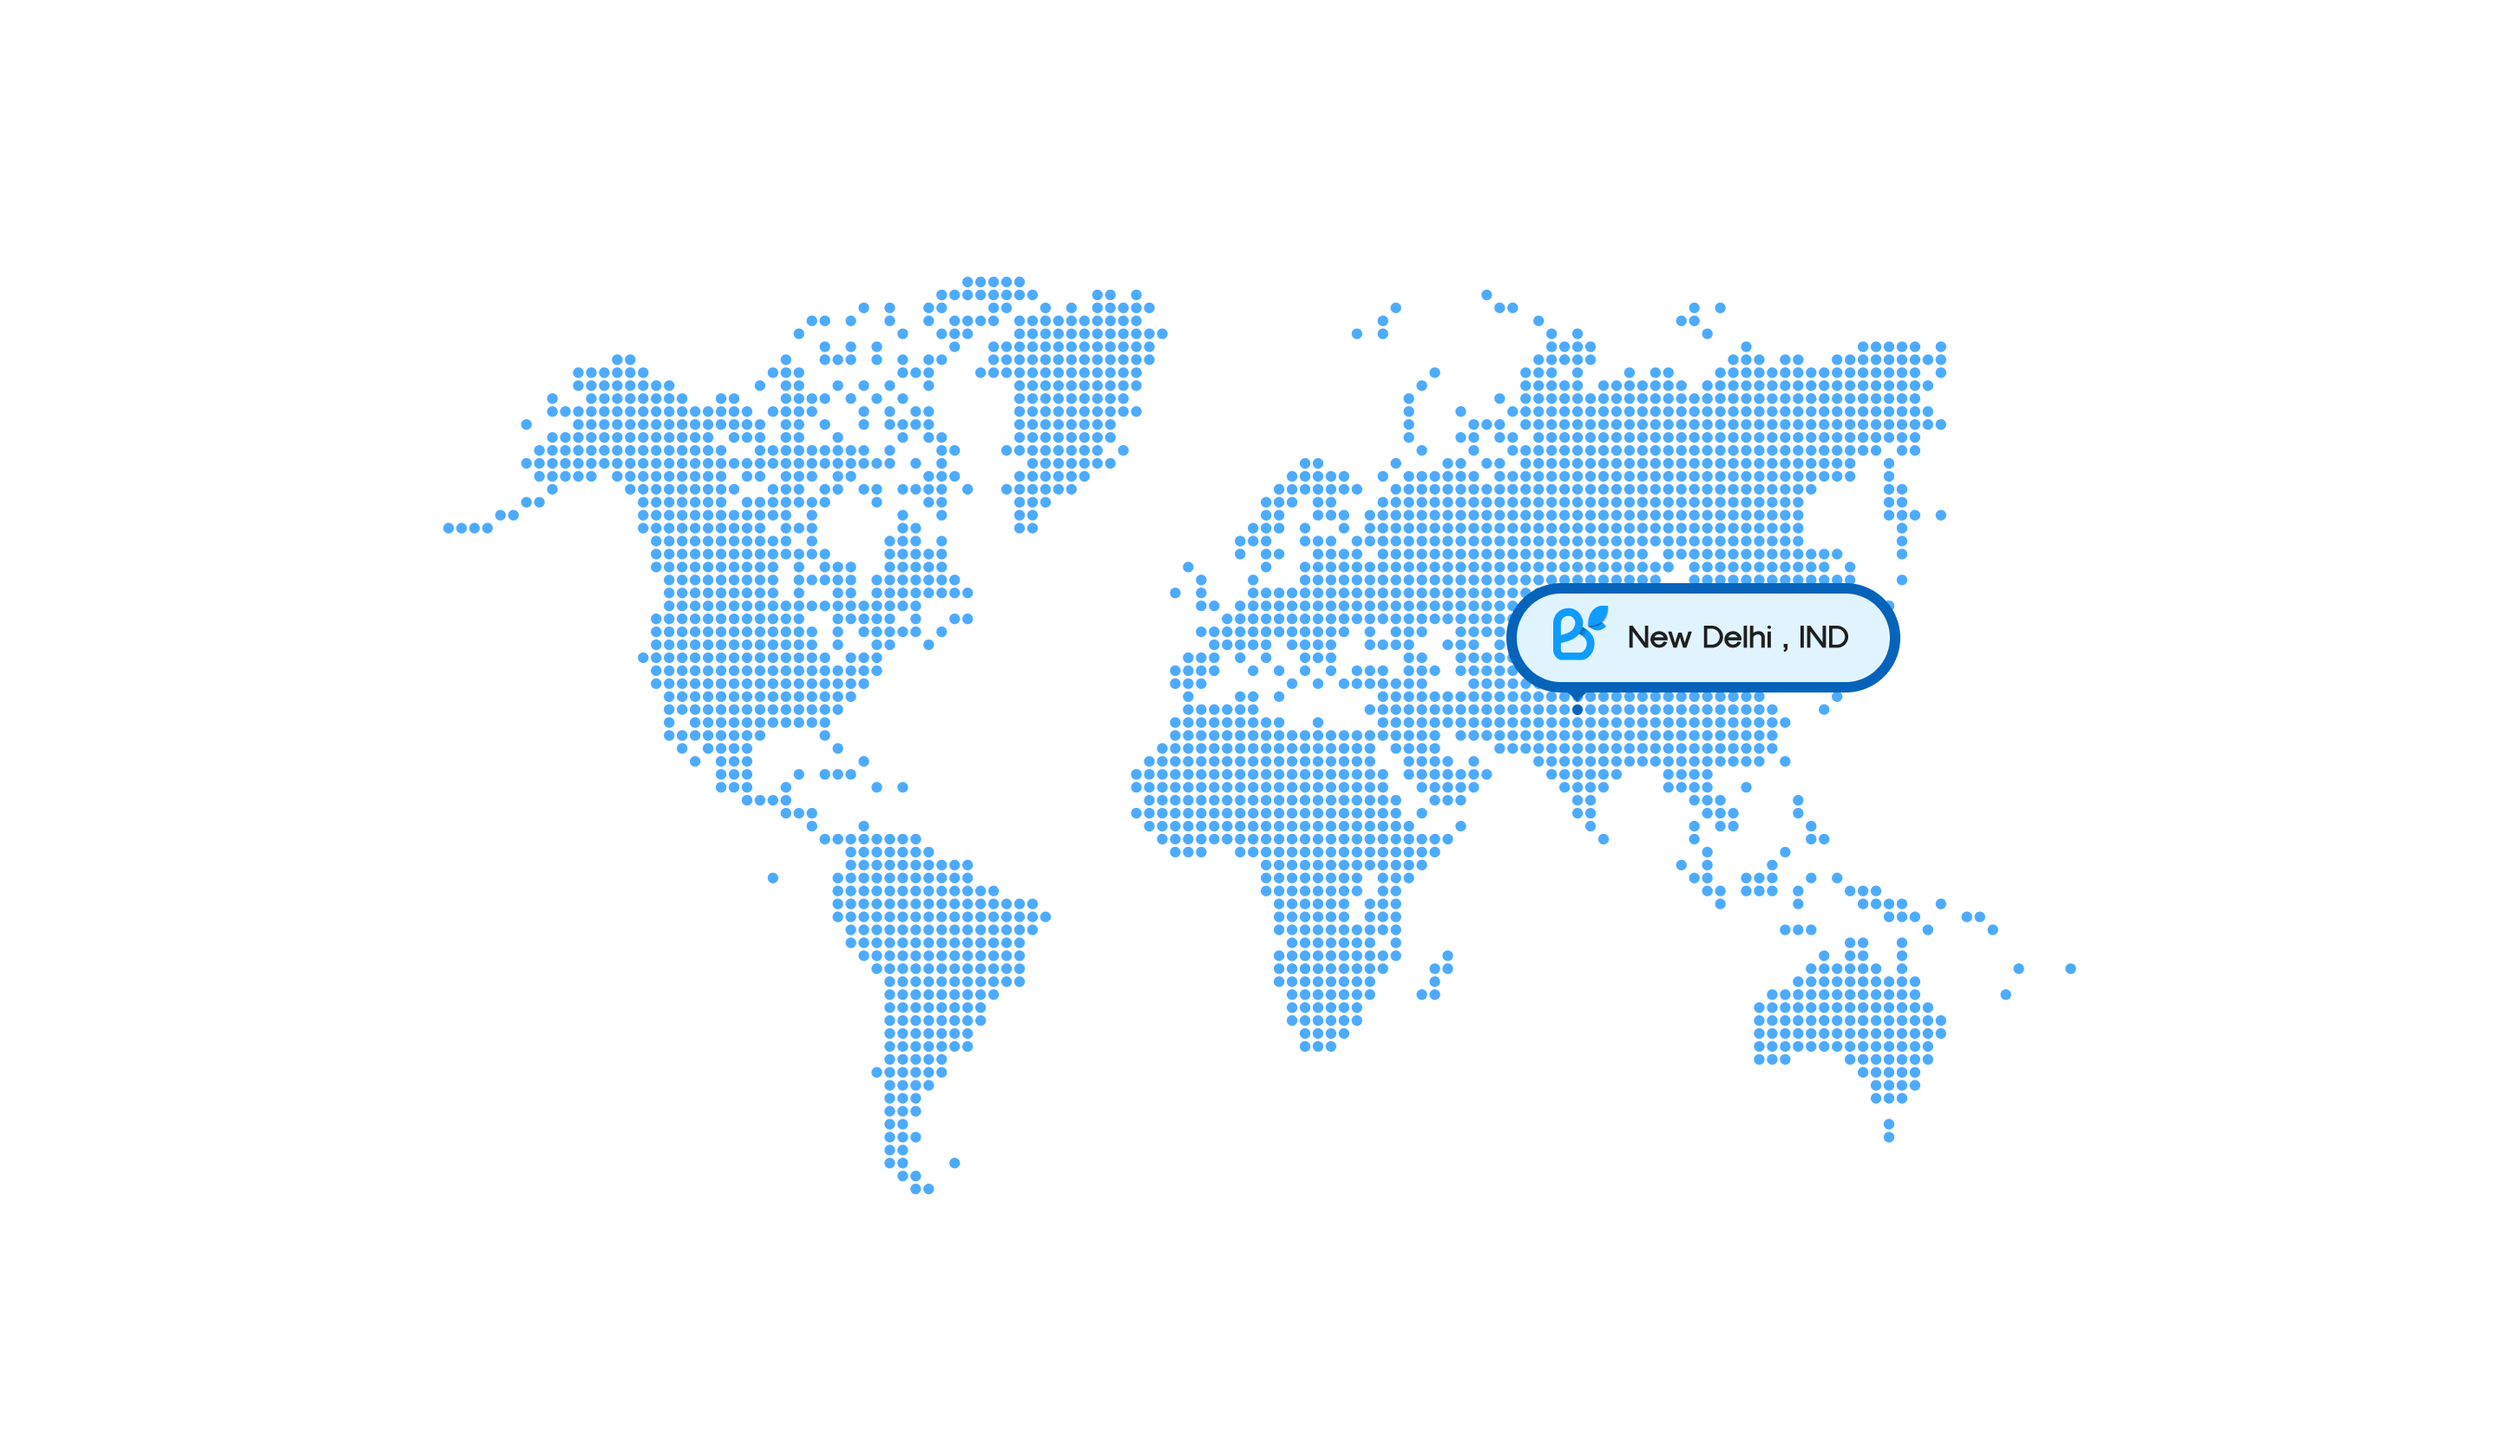
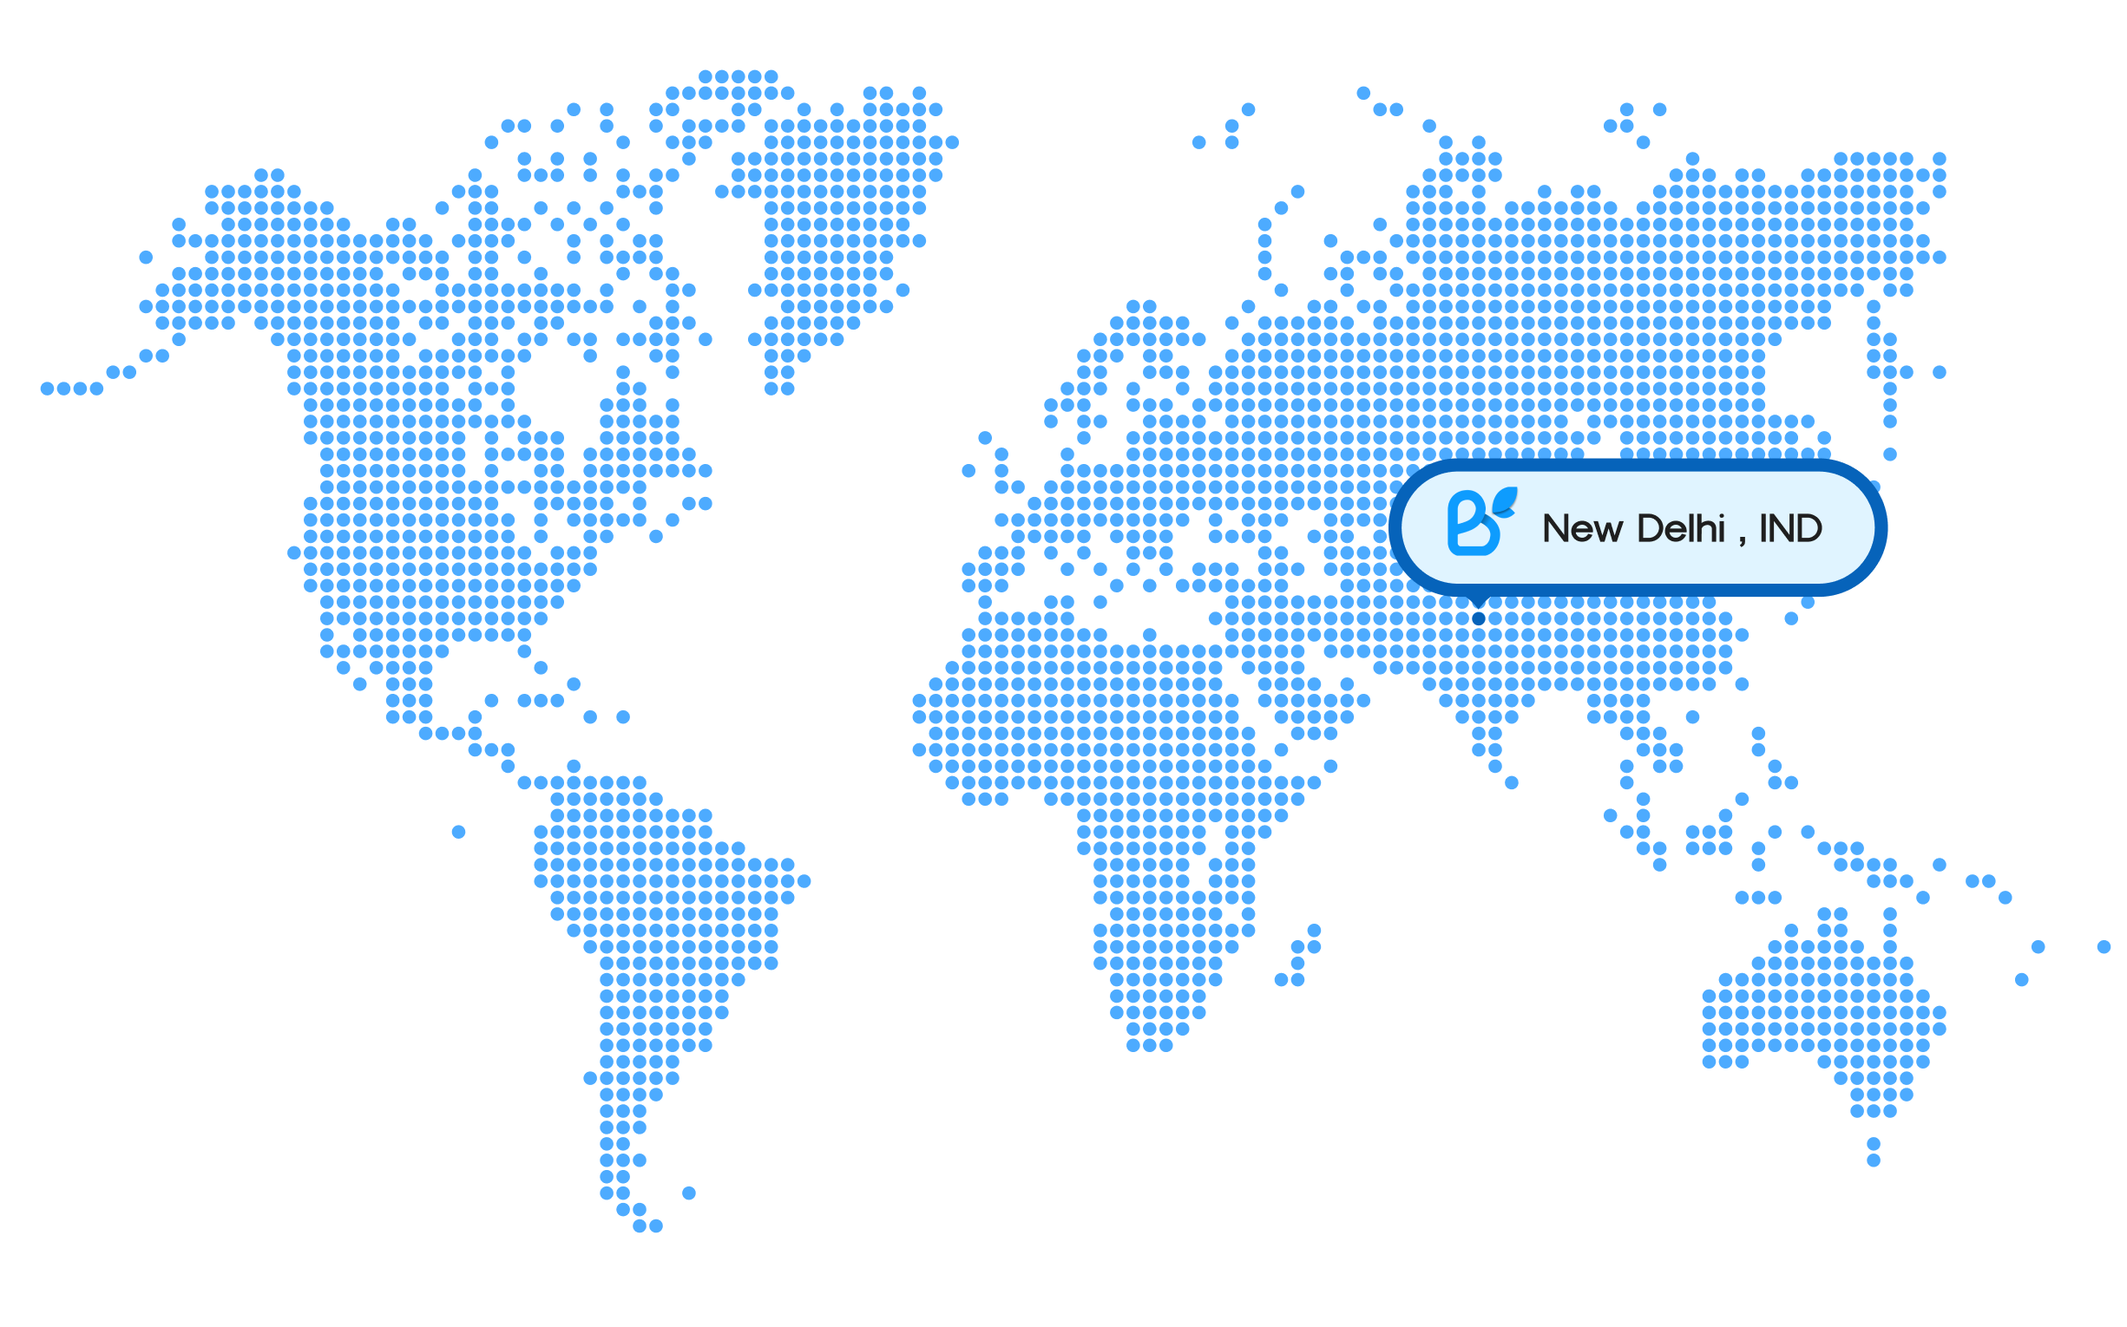
bug fixes

diff --git a/app/page.tsx b/app/page.tsx
@@ -16,26 +16,22 @@ export default function Home() {
     {
       image: "/images/landing-page/cards/card1.png",
       service: "/images/landing-page/service/service1.png",
-      text: "Instant support whenever you need it. Chat with professionals 24/7 or 15mins-focused call sessions. It's like having a personal wellness coach-confidential, secure, and right at your fingertips. Whether it's work stress, life balance, or just needing someone to listen, Berri Buddies are here to make you feel heard and supported, anytime.",
-      link: "https://example.com",
+      text: "Instant support whenever you need it. Chat with professionals 24/7 or 15 mins-focused call sessions. It's like having a personal wellness coach-confidential, secure, and right at your fingertips. Whether it's work stress, life balance, or just needing someone to listen, Berri Buddies are here to make you feel heard and supported, anytime.",
     },
     {
       image: "/images/landing-page/cards/card2.png",
       service: "/images/landing-page/service/service2.png",
       text: "Share your thoughts, ask questions, or vent in a completely anonymous forum. Whether it's work stress, personal struggles, or just something on your mind, Talk Berri is your private, safe space to connect with others from your organization. It's all about real, honest conversations without fear of judgment-because sometimes, just talking helps. Your identity is protected, and your voice matters.",
-      link: "https://example.com",
     },
     {
       image: "/images/landing-page/cards/card3.png",
       service: "/images/landing-page/service/service3.png",
       text: "A fresh perspective delivered to you every day. Berri Daily Insights offers quick tips, mindset shifts, and thoughtful prompts to help you manage stress, boost your well-being, and change how you approach life's challenges. It's your daily mental boost-easy, actionable, and designed to keep you feeling balanced and in control. Swipe through daily insights and make them part of your routine.",
-      link: "https://example.com",
     },
     {
       image: "/images/landing-page/cards/card4.png",
       service: "/images/landing-page/service/service4.png",
       text: "Stay ahead with weekly insights on mental wellness, personal growth, and tips to manage daily challenges. Delivered straight to your inbox, our newsletter covers everything from stress management to building better habits and fostering positive change. It's not just al Madhav Aggarwal mental health-it's about shaping a healthier, more balanced life, one email at a time.",
-      link: "https://example.com",
     },
   ];
 
@@ -125,7 +121,7 @@ export default function Home() {
                   setIsService={setIsService}
                 />
               </div>
-              <div className="mt-4 flex flex-col justify-evenly items-start gap-y-4">
+              <div id="service-info" className="mt-4 flex flex-col justify-evenly items-start gap-y-4">
                 <div
                   className="flex justify-start items-center ml-2 mt-2"
                   style={{ width: "100%", height: "100%" }}
@@ -194,8 +190,8 @@ export default function Home() {
             src="/images/landing-page/misc/image5.png" // Replace with actual image path
             alt="Berri Location Illustration"
             width={1080}
-            height={720}
-            className="object-cover max-w-full"
+            height={1080}
+            className="object-cover max-w-full max-h-full"
           />
         </div>
       </div>

diff --git a/components/hamburger.tsx b/components/hamburger.tsx
@@ -1,3 +1,4 @@
+/*eslint-disable @typescript-eslint/no-explicit-any */
 import { Button } from "@/components/ui/button";
 import {
   Dialog,
@@ -7,9 +8,23 @@ import {
 import { RxHamburgerMenu } from "react-icons/rx"; // Import the hamburger icon
 import Link from "next/link"; // For navigation
 
-export function Hamburger() {
+interface HamburgerProps {
+  setIsMenuOpen: (open: boolean) => void; // Specify the type properly
+}
+
+export function Hamburger({ setIsMenuOpen }: HamburgerProps) {
+  const handleAboutClick = () => {
+    // Close the menu
+    setIsMenuOpen(false);
+    // Scroll to the #faq-about section
+    const element = document.getElementById('faq-about');
+    if (element) {
+      element.scrollIntoView({ behavior: 'smooth' });
+    }
+  };
+
   return (
-    <Dialog>
+    <Dialog onOpenChange={setIsMenuOpen}> {/* This will set isMenuOpen based on dialog open state */}
       <DialogTrigger asChild>
         <Button className="hover:text-black">
           <RxHamburgerMenu size={18} /> {/* Hamburger icon inside the button */}
@@ -19,22 +34,25 @@ export function Hamburger() {
         <div className="grid gap-4 py-4">
           <Button
             asChild
-            variant = "link"
+            variant="link"
             className="hover:bg-neutral-100 hover:text-black text-center text-lg hover:no-underline transition-colors duration-500"
+            onClick={() => setIsMenuOpen(false)} // Close menu on click
           >
             <Link href="/newsletter">Newsletter</Link>
           </Button>
           <Button
             asChild
-            variant = "link"
+            variant="link"
             className="hover:bg-neutral-100 hover:text-black text-center text-lg hover:no-underline transition-colors duration-500"
+            onClick={handleAboutClick} // Trigger the About scroll and close the menu
           >
-            <Link href="/about">About</Link>
+            <Link href="/#faq-about">About</Link>
           </Button>
           <Button
             asChild
-            variant = "link"
+            variant="link"
             className="hover:bg-neutral-100 hover:text-black text-center text-lg hover:no-underline transition-colors duration-500"
+            onClick={() => setIsMenuOpen(false)} // Close menu on click
           >
             <Link href="/corporate-solutions">Corporate Solutions</Link>
           </Button>

diff --git a/components/ui/card-hover-effect.tsx b/components/ui/card-hover-effect.tsx
@@ -17,22 +17,27 @@ export const HoverEffect = ({
     image: string;
     service: string;
     text: string;
-    link: string;
   }[];
   setSelectedImage: (image: string) => void;
-  setSelectedText: (text: string) => void; 
-  setIsService: any;// Function to update the selected image
+  setSelectedText: (text: string) => void;
+  setIsService: any; // Function to update the selected image
   className?: string;
 }) => {
   const [hoveredIndex, setHoveredIndex] = useState<number | null>(null);
 
+  // Function to scroll to the #service-info section only on screens smaller than 'md'
+  const scrollToServiceInfo = () => {
+    // Check if screen width is smaller than 768px (Tailwind 'md' breakpoint)
+    if (window.innerWidth < 768) {
+      const serviceInfoElement = document.getElementById("service-info");
+      if (serviceInfoElement) {
+        serviceInfoElement.scrollIntoView({ behavior: "smooth" });
+      }
+    }
+  };
+
   return (
-    <div
-      className={cn(
-        "grid grid-cols-1 md:grid-cols-2 gap-4",
-        className
-      )}
-    >
+    <div className={cn("grid grid-cols-1 md:grid-cols-2 gap-4", className)}>
       {items.map((item, idx) => (
         <div
           key={idx}
@@ -40,13 +45,19 @@ export const HoverEffect = ({
           onMouseEnter={() => setHoveredIndex(idx)}
           onMouseLeave={() => setHoveredIndex(null)}
           onClick={() => {
-            setSelectedImage(item.service); // Update selected image on click
-            setSelectedText(item.text); // Update selected text on click
-            if(item.image === "/images/landing-page/cards/card4.png") {
+            // Update the selected image and text
+            setSelectedImage(item.service);
+            setSelectedText(item.text);
+
+            // Check if it's the specific card for service
+            if (item.image === "/images/landing-page/cards/card4.png") {
               setIsService(true);
-            }else{
+            } else {
               setIsService(false);
             }
+
+            // Scroll to the #service-info section if screen is smaller than 'md'
+            scrollToServiceInfo();
           }}
         >
           <AnimatePresence>

diff --git a/app/newsletter/page.tsx b/app/newsletter/page.tsx
@@ -60,6 +60,7 @@ export default function Newsletter() {
 
       <div
         className="flex flex-col sm:flex-row justify-evenly items-center max-w-6xl mx-auto mt-24"
+        id="newsletter-form"
       >
         <div className="p-8">
           <div className="grid grid-cols-1 justify-evenly items-center max-w-6xl mx-auto">
@@ -77,7 +78,7 @@ export default function Newsletter() {
             </div>
           </div>
         </div>
-        <div id="newsletter-form" className="p-2 w-2/3 md:w-[40%]">
+        <div className="p-2 w-2/3 md:w-[40%]">
           <NewsletterForm />
         </div>
       </div>

diff --git a/components/navbar.tsx b/components/navbar.tsx
@@ -36,8 +36,8 @@ export function NavBar() {
               </Link>
             </NavigationMenuItem>
           </div>
-          <div className="flex sm:hidden">
-            <Hamburger/>
+          <div className={`mx-2 flex sm:hidden ${isMenuOpen ? 'hidden' : 'flex'}`}>
+            <Hamburger setIsMenuOpen={setIsMenuOpen}/> {/* Pass setIsMenuOpen to Hamburger */}
           </div>
           <div className={`flex-col sm:flex-row gap-2 ${isMenuOpen ? 'flex' : 'hidden'} sm:flex`}>
             <NavigationMenuItem>

diff --git a/components/accordian.tsx b/components/accordian.tsx
@@ -137,7 +137,7 @@ export function AccordionDemo() {
         className="hover:shadow-sm border border-neutral-100 px-4 rounded-xl my-2"
         value="item-8"
       >
-        <AccordionTrigger className="text-lg hover:no-underline">
+        <AccordionTrigger className="text-[17px] sm:text-lg hover:no-underline">
           Will my employer know what I talk about?
         </AccordionTrigger>
         <AccordionContent className="text-secondary">
